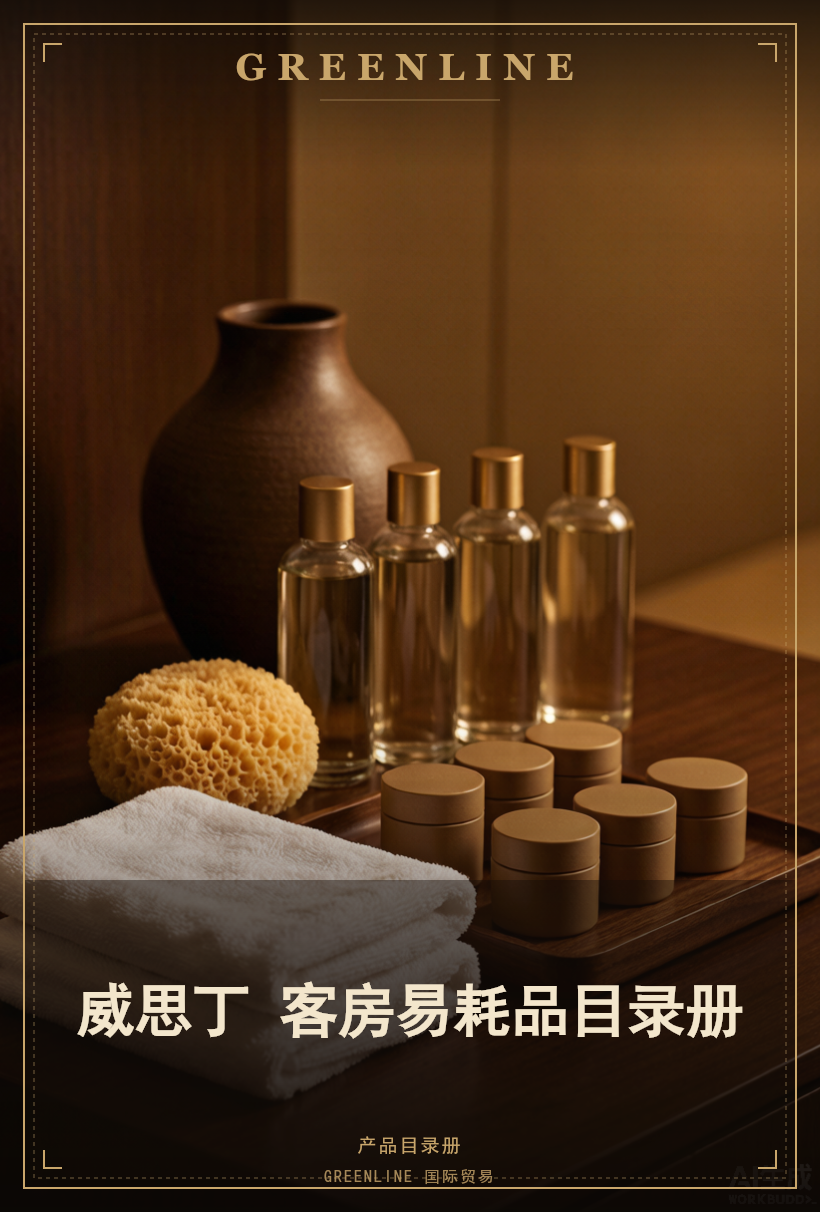
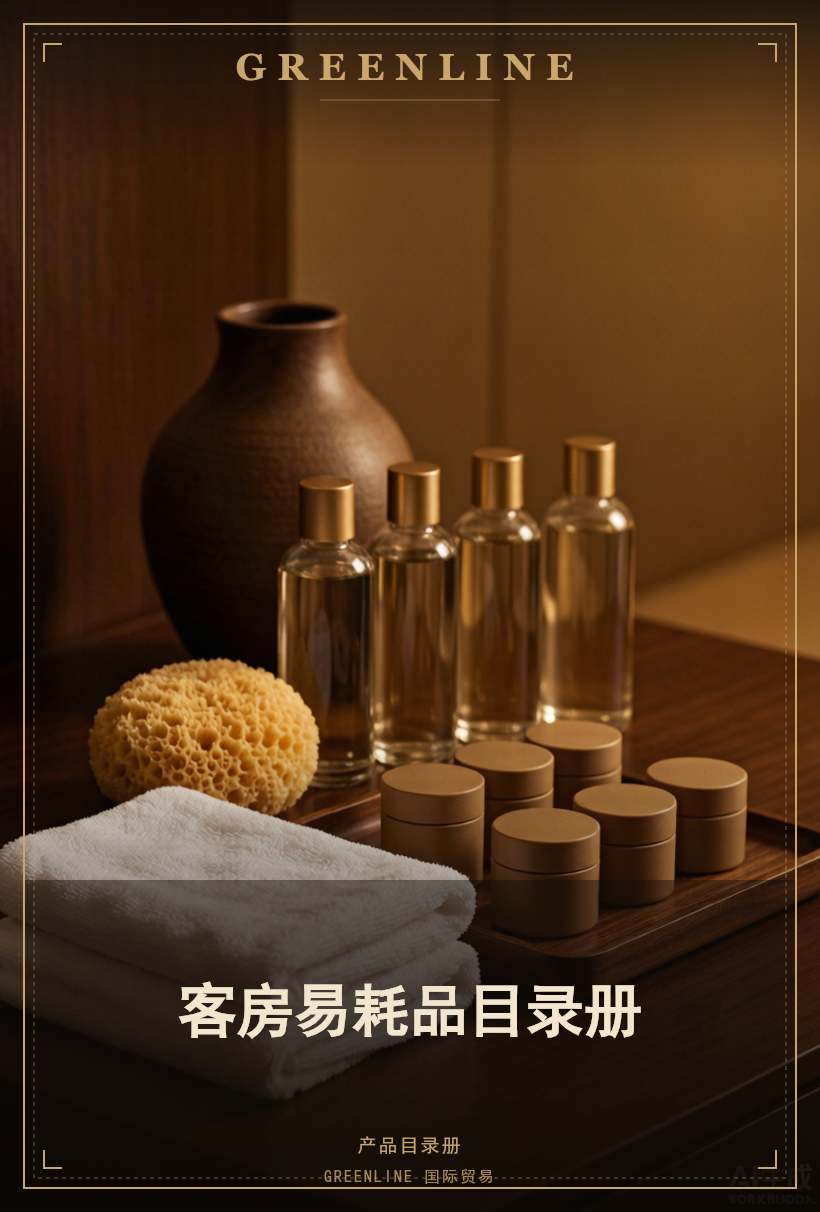
Remove third-party brand names from catalog titles and covers (9 catalogs)

Changed region(s): [[0.0915, 0.7937, 0.9146, 0.8548]]

diff --git a/catalog/catalogs.js b/catalog/catalogs.js
@@ -66,8 +66,8 @@ window.CATALOGS = [
   {
     "folder": "tewei-bathroom-cabinet",
     "category": "bathroom",
-    "title_cn": "特卫砖家 功能浴室柜图册 2026",
-    "title_en": "TEWEI BATHROOM CABINET CATALOG 2026",
+    "title_cn": "功能浴室柜图册 2026",
+    "title_en": "BATHROOM CABINET CATALOG 2026",
     "pages": 92,
     "cover_cn": "./tewei-bathroom-cabinet/cover_cn.png",
     "cover_en": "./tewei-bathroom-cabinet/cover_en.png"
@@ -84,8 +84,8 @@ window.CATALOGS = [
   {
     "folder": "furui-windows",
     "category": "door",
-    "title_cn": "富瑞斯门窗",
-    "title_en": "FURUISI DOORS & WINDOWS",
+    "title_cn": "门窗产品图册",
+    "title_en": "DOORS & WINDOWS CATALOGUE",
     "pages": 24,
     "cover_cn": "./furui-windows/cover_cn.png",
     "cover_en": "./furui-windows/cover_en.png"
@@ -93,8 +93,8 @@ window.CATALOGS = [
   {
     "folder": "junli-door",
     "category": "door",
-    "title_cn": "俊利门业电子画册 2026",
-    "title_en": "JUNLI DOOR CATALOGUE 2026",
+    "title_cn": "门业电子画册 2026",
+    "title_en": "DOOR CATALOGUE 2026",
     "pages": 94,
     "cover_cn": "./junli-door/cover_cn.png",
     "cover_en": "./junli-door/cover_en.png"
@@ -165,8 +165,8 @@ window.CATALOGS = [
   {
     "folder": "weiding-2022-hotel",
     "category": "hotel",
-    "title_cn": "威思丁 酒店其它系列画册 2022",
-    "title_en": "WEIDING HOTEL SERIES 2022",
+    "title_cn": "酒店其它系列画册 2022",
+    "title_en": "HOTEL SERIES 2022",
     "pages": 176,
     "cover_cn": "./weiding-2022-hotel/cover_cn.png",
     "cover_en": "./weiding-2022-hotel/cover_en.png"
@@ -174,8 +174,8 @@ window.CATALOGS = [
   {
     "folder": "weiding-disposable",
     "category": "hotel",
-    "title_cn": "威思丁 客房一次性用品",
-    "title_en": "WEIDING DISPOSABLE HOTEL SUPPLIES",
+    "title_cn": "客房一次性用品",
+    "title_en": "DISPOSABLE HOTEL SUPPLIES",
     "pages": 112,
     "cover_cn": "./weiding-disposable/cover_cn.png",
     "cover_en": "./weiding-disposable/cover_en.png"
@@ -183,8 +183,8 @@ window.CATALOGS = [
   {
     "folder": "weiding-consumable",
     "category": "hotel",
-    "title_cn": "威思丁 客房易耗品目录册",
-    "title_en": "WEIDING GUEST-ROOM CONSUMABLES",
+    "title_cn": "客房易耗品目录册",
+    "title_en": "GUEST-ROOM CONSUMABLES",
     "pages": 24,
     "cover_cn": "./weiding-consumable/cover_cn.png",
     "cover_en": "./weiding-consumable/cover_en.png"
@@ -192,8 +192,8 @@ window.CATALOGS = [
   {
     "folder": "weiding-towel",
     "category": "textile",
-    "title_cn": "威思丁 全棉餐巾目录册",
-    "title_en": "WEIDING COTTON TOWEL CATALOG",
+    "title_cn": "全棉餐巾目录册",
+    "title_en": "COTTON TOWEL CATALOG",
     "pages": 47,
     "cover_cn": "./weiding-towel/cover_cn.png",
     "cover_en": "./weiding-towel/cover_en.png"
@@ -237,8 +237,8 @@ window.CATALOGS = [
   {
     "folder": "tumei-banner",
     "category": "shelf",
-    "title_cn": "灯布车贴彩页 TUMEI",
-    "title_en": "TUMEI BANNER & VEHICLE WRAP",
+    "title_cn": "灯布车贴彩页",
+    "title_en": "BANNER & VEHICLE WRAP",
     "pages": 48,
     "cover_cn": "./tumei-banner/cover_cn.png",
     "cover_en": "./tumei-banner/cover_en.png"
@@ -399,8 +399,8 @@ window.CATALOGS = [
   {
     "folder": "geyas-sanitary",
     "category": "bathroom",
-    "title_cn": "格雅斯卫浴产品目录册",
-    "title_en": "GEYAS SANITARYWARE CATALOG",
+    "title_cn": "卫浴产品目录册",
+    "title_en": "SANITARYWARE CATALOG",
     "pages": 79,
     "cover_cn": "./geyas-sanitary/cover_cn.png",
     "cover_en": "./geyas-sanitary/cover_en.png"
